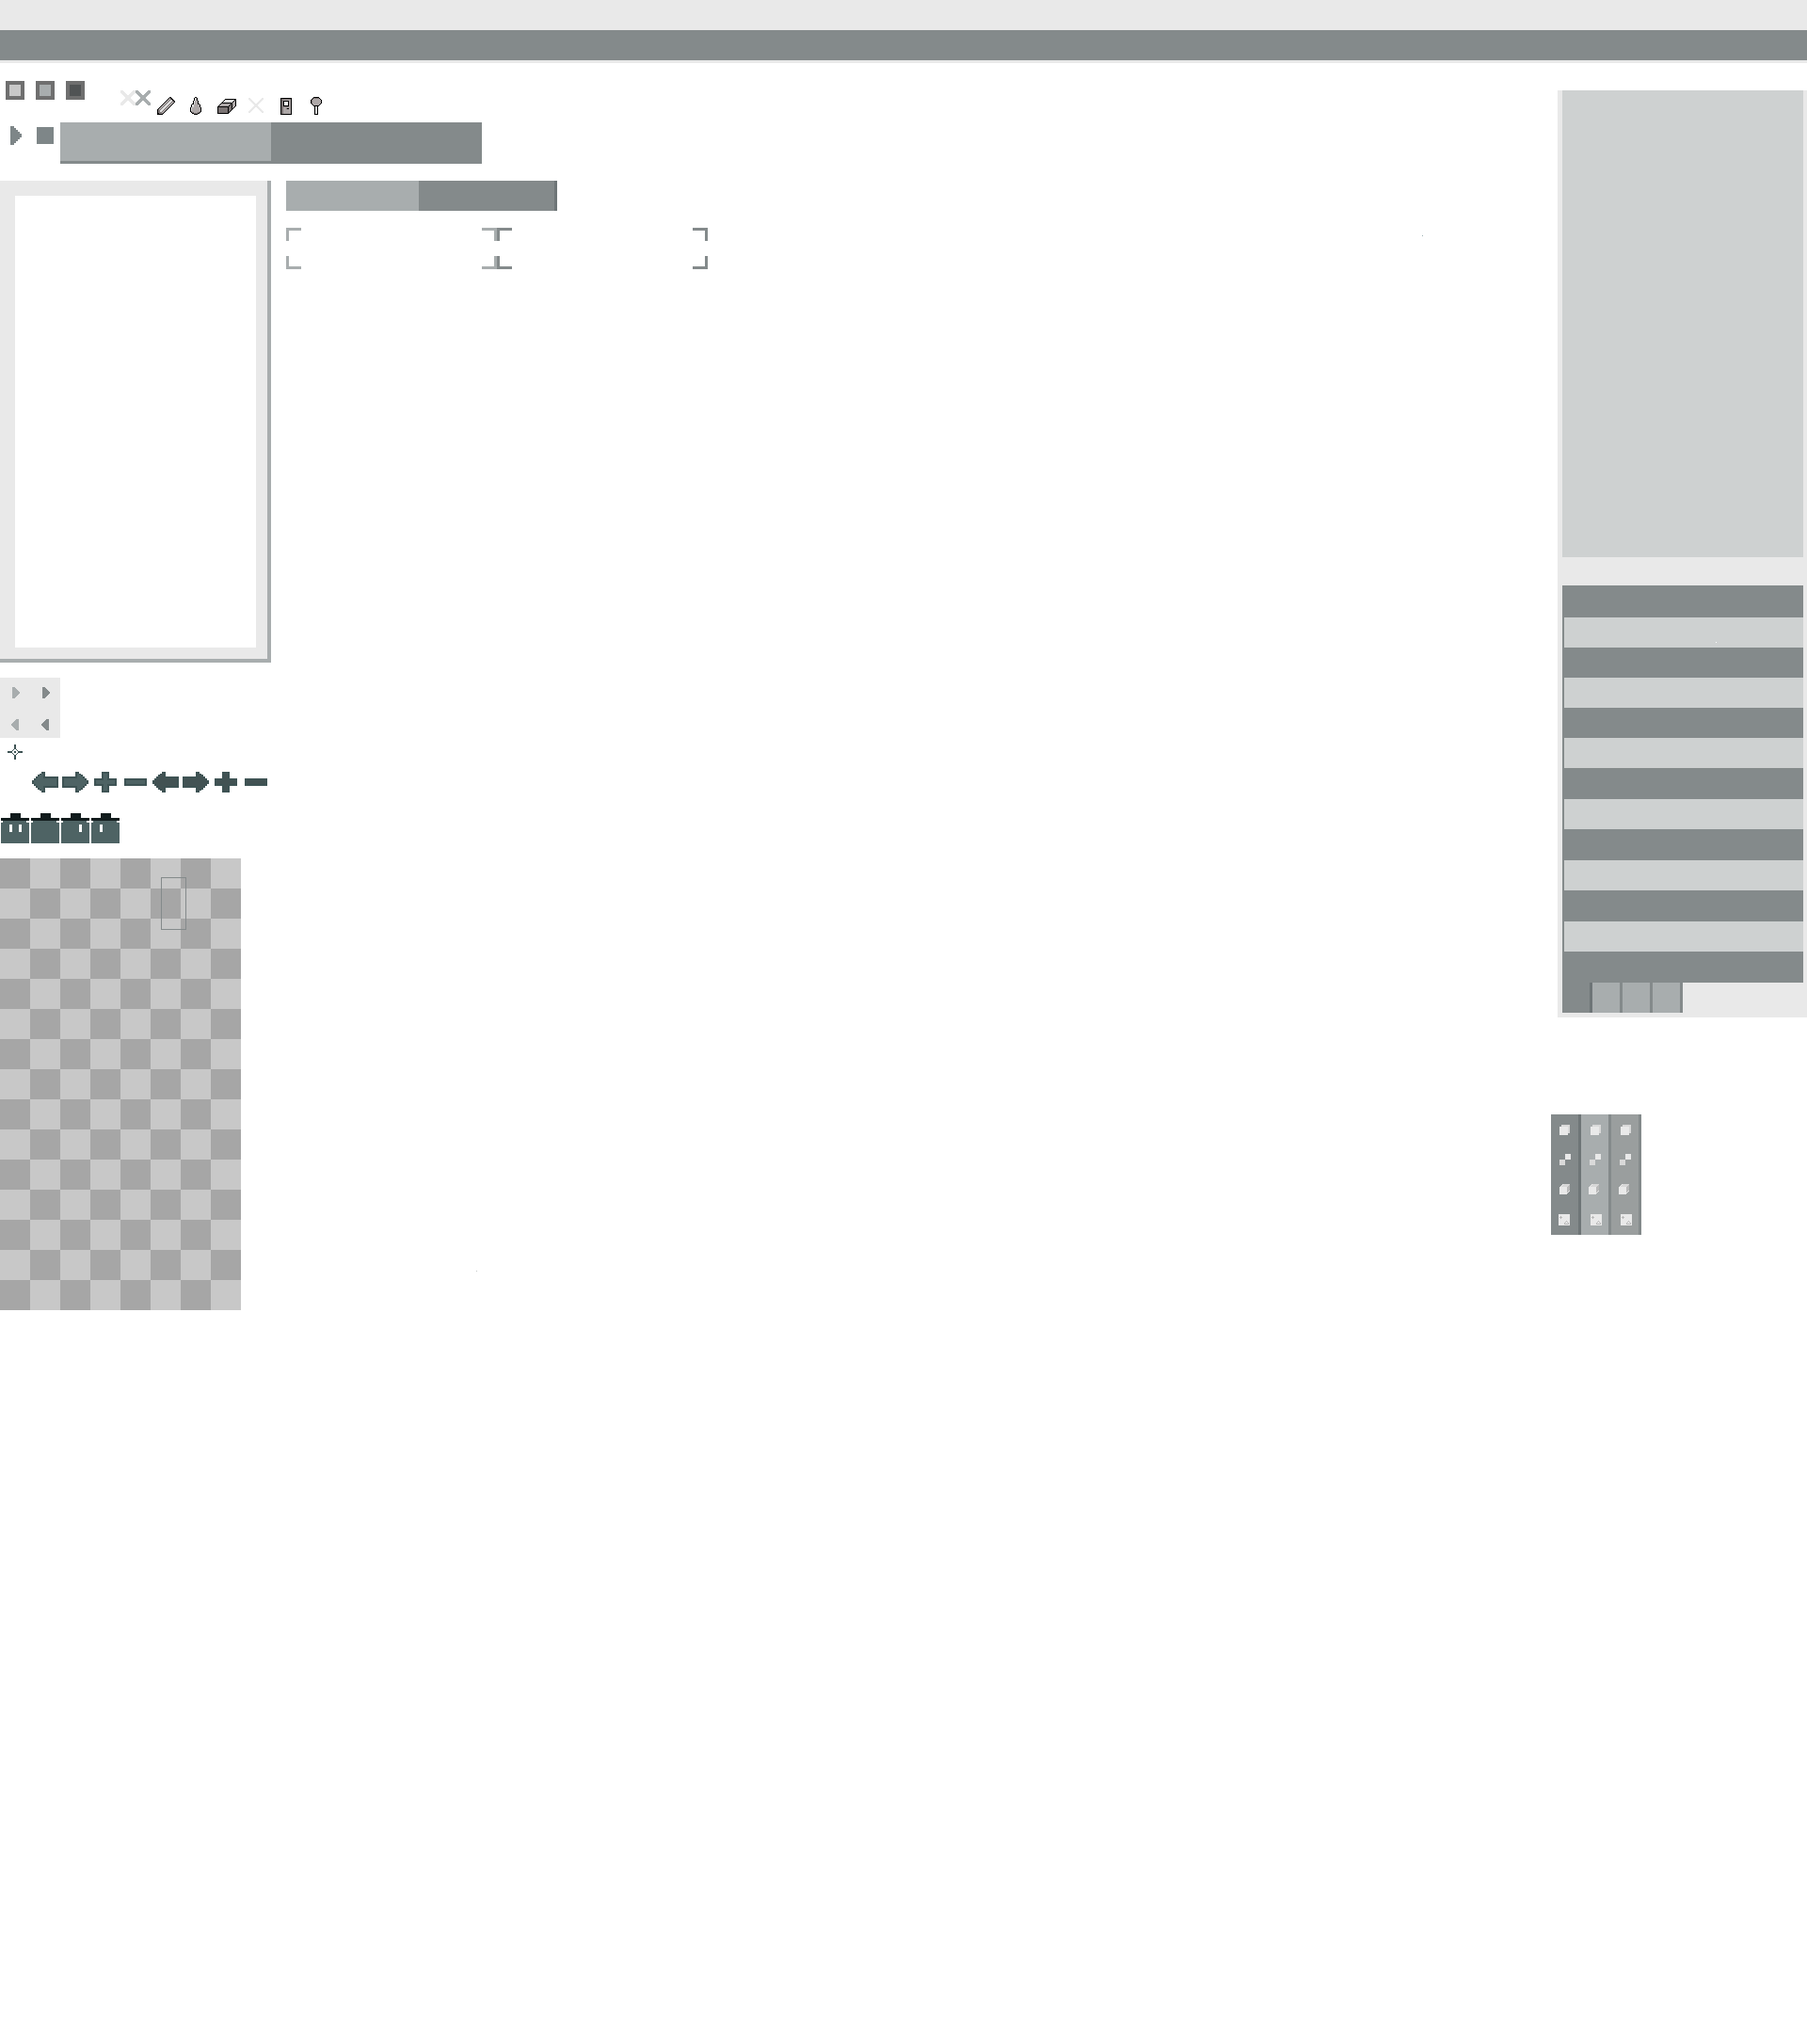
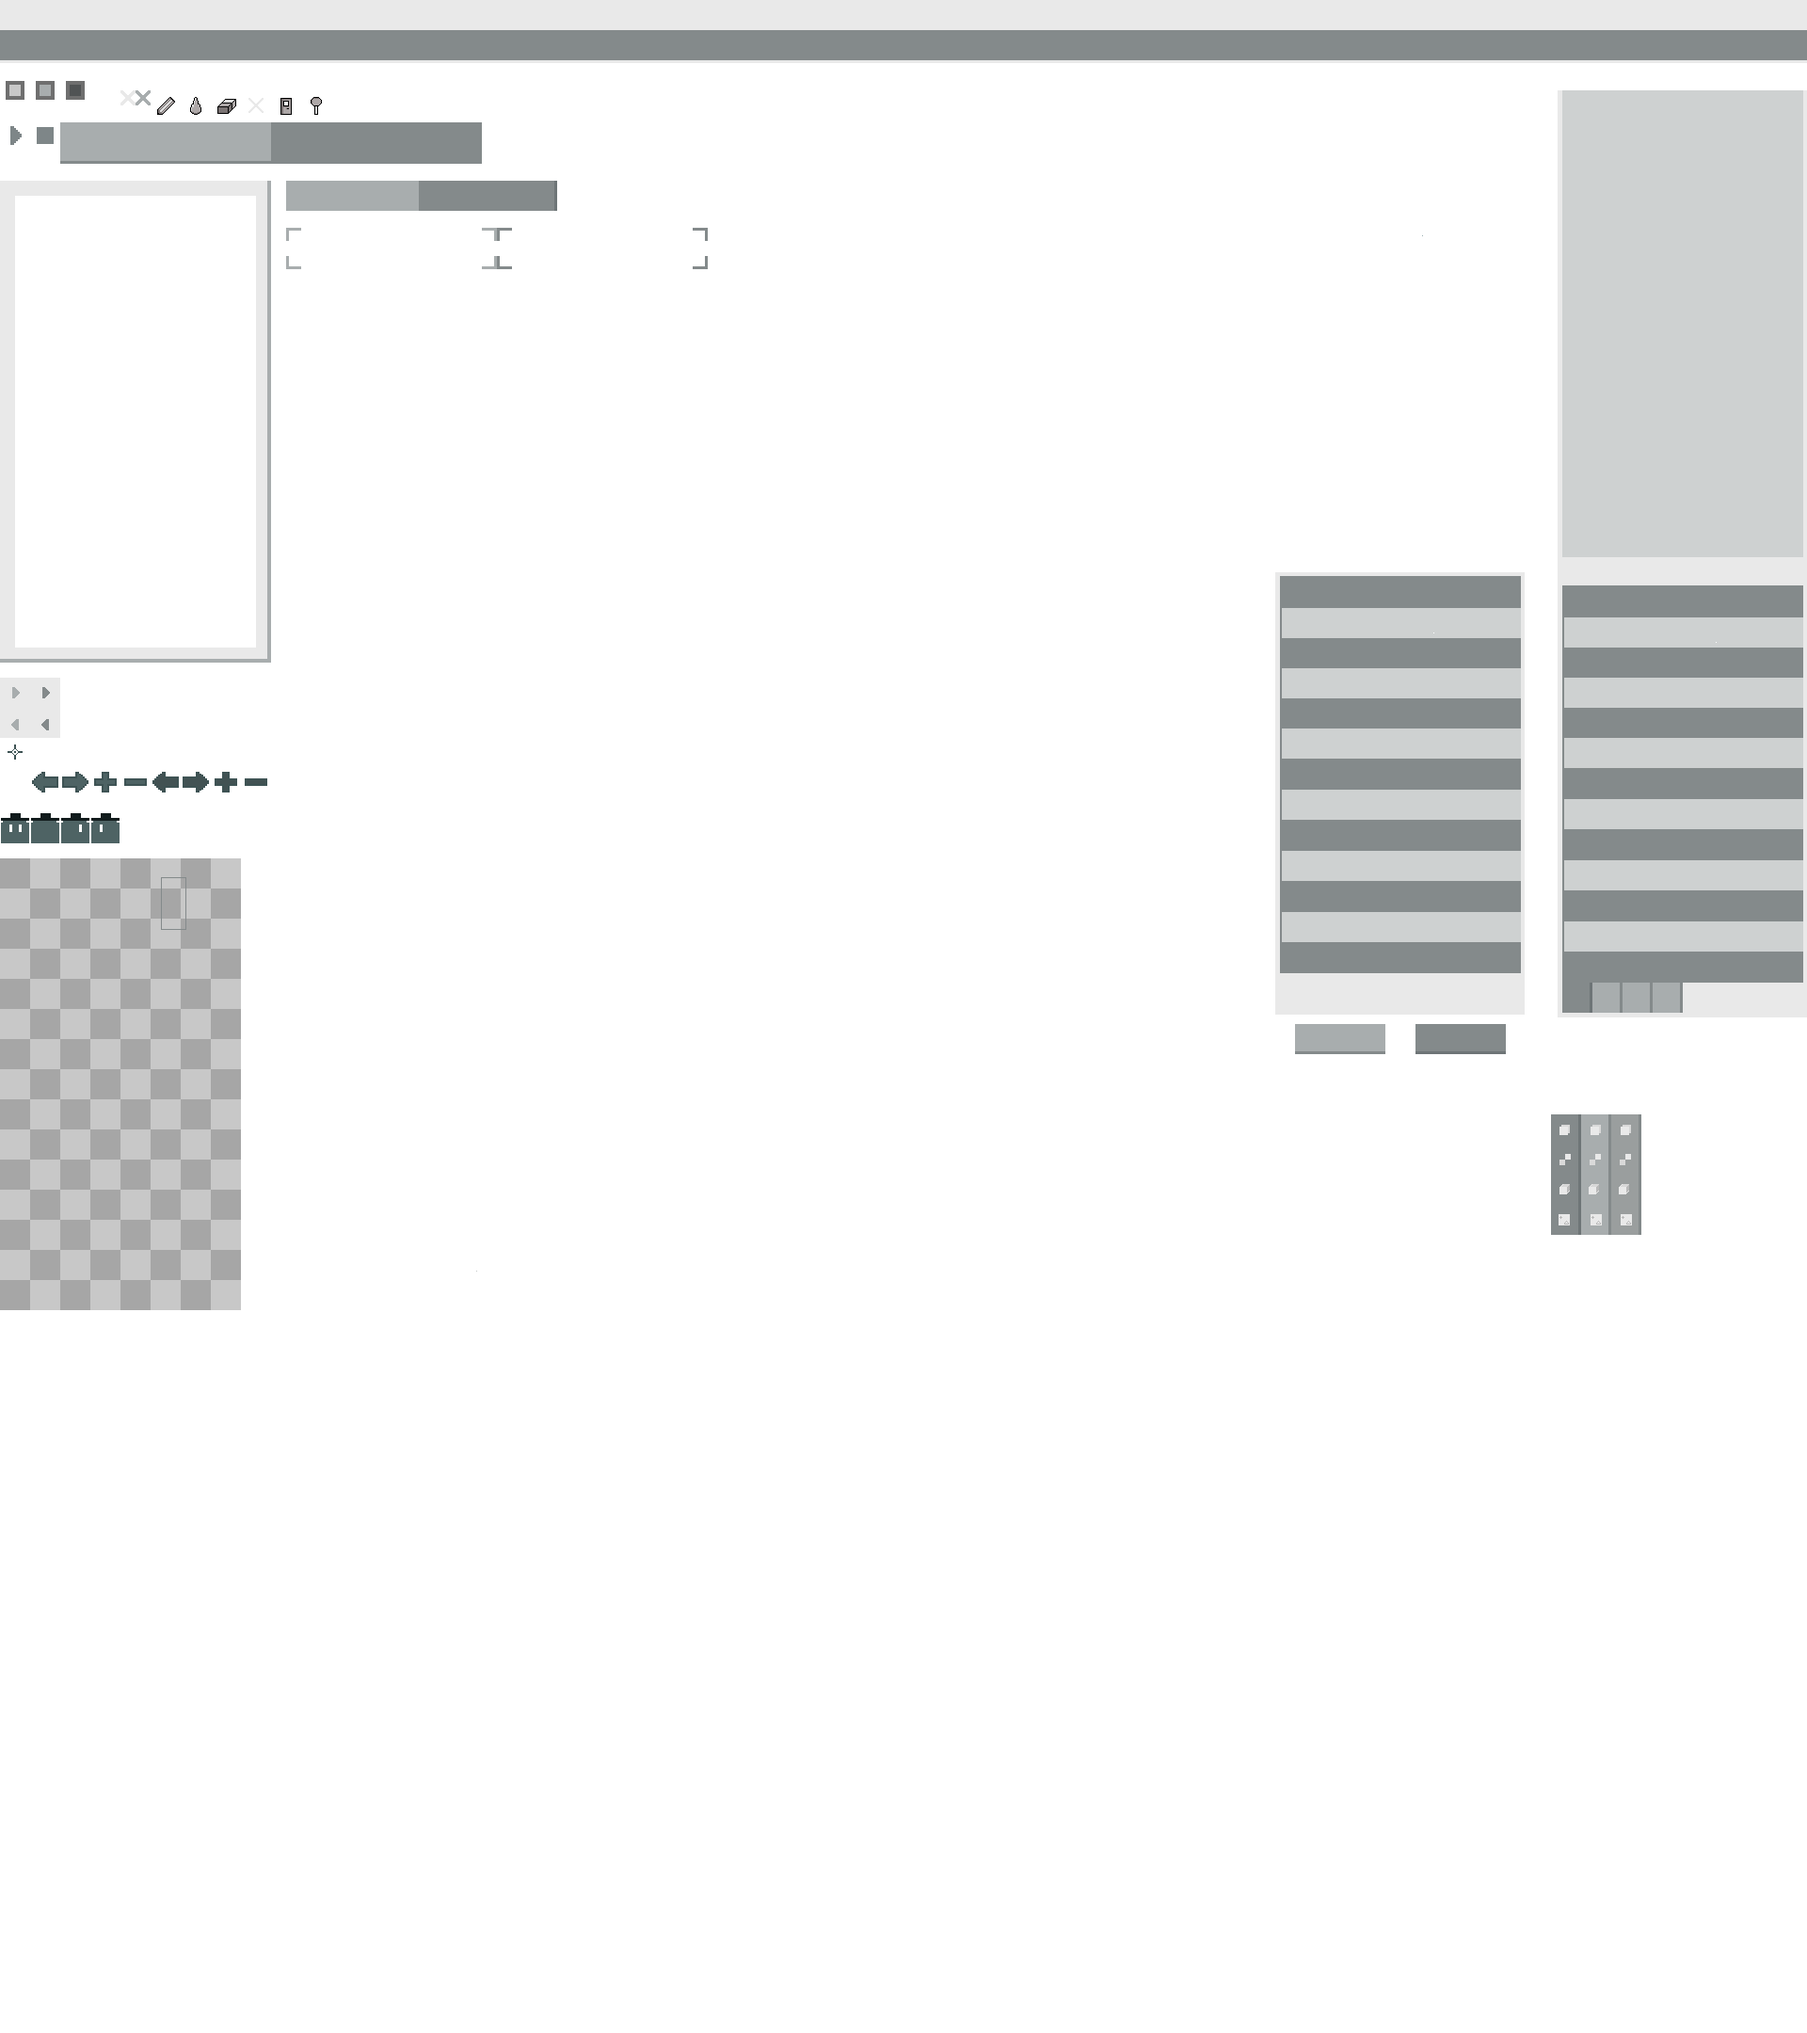
bug fixes

Changed region(s): [[0.6875, 0.2792, 0.8438, 0.5273]]

diff --git a/src/ProgramLoop.cs b/src/ProgramLoop.cs
@@ -303,6 +303,7 @@ namespace tile_mapper.src
             AreaLabels = new UI_Menu(false, new Rectangle(1768, 802, 0, 0), LabelMenuDestination);
             LayerLabels = new UI_Menu(true, new Rectangle(1768, 802, 0, 0), LabelMenuDestination);
             ObjectLabels = new UI_Menu(false, new Rectangle(1660, 96, 256, 422), LabelMenuDestination); // Object menu has 2 button lists instead of labels.
+            ObjectLabels.Scrollable = true;
 
             LayerName = new Label();
             LayerName.LabelRect = new Rectangle(1660, 624 - 64, 256, 32);
@@ -413,7 +414,6 @@ namespace tile_mapper.src
             UI_Elements.Add(GeneralOverlay);
             UI_Elements.Add(Properties);
 
-            // Scrollable
             UI_Elements.Add(ObjectMenu);
             UI_Elements.Add(AreaMenu);
             UI_Elements.Add(LayerMenu);
@@ -434,10 +434,12 @@ namespace tile_mapper.src
             PropertyMenu1.Add(ObjectMenu);
             PropertyMenu1.Add(CollisionSpriteList);
 
+            // Scrollable
             Scrollable_Menus.Add(LayerMenu);
             Scrollable_Menus.Add(AreaMenu);
             Scrollable_Menus.Add(ObjectMenu);
             Scrollable_Menus.Add(CollisionSpriteList);
+            Scrollable_Menus.Add(ObjectLabels);
 
             LabelMenus.Add(LayerLabels);
             LabelMenus.Add(AreaLabels);
@@ -736,17 +738,21 @@ namespace tile_mapper.src
             }
             _spriteBatch.End();
 
-            _spriteBatch.GraphicsDevice.ScissorRectangle = LayerMenu.Destination;
-
-            _spriteBatch.Begin(SpriteSortMode.Immediate, BlendState.AlphaBlend, SamplerState.LinearClamp, DepthStencilState.Default, rasterizerState);
+            
 
             // Draw scrollable menus, elements need to be cut off when out of bounds.
             foreach (var menu in Scrollable_Menus)
             {
-                menu.Draw(_spriteBatch, UI, ScreenHeight, ScreenWidth, ScaleX, ScaleY, font, TextScale, true);
+                if(menu.IsVisible)
+                {
+                    _spriteBatch.GraphicsDevice.ScissorRectangle = menu.Destination;
+                    _spriteBatch.Begin(SpriteSortMode.Immediate, BlendState.AlphaBlend, SamplerState.LinearClamp, DepthStencilState.Default, rasterizerState);
+                    menu.Draw(_spriteBatch, UI, ScreenHeight, ScreenWidth, ScaleX, ScaleY, font, TextScale, true);
+                    _spriteBatch.End();
+                }
             }
 
-            _spriteBatch.End();
+            
 
             _spriteBatch.GraphicsDevice.ScissorRectangle = orgScissorRec;
             _spriteBatch.Begin(samplerState: SamplerState.PointClamp);
@@ -1127,7 +1133,7 @@ namespace tile_mapper.src
                 if (menu.Destination.Contains(MousePos))
                     return;
             // Execute each frame if mouse button is held.
-            if (mouseState.LeftButton == ButtonState.Pressed && selected != null)
+            if (mouseState.LeftButton == ButtonState.Pressed && selected != null && !keyboardState.IsKeyDown(Keys.LeftShift))
             {
                 foreach (var area in CurrentMap.areas)
                 {
@@ -1455,11 +1461,6 @@ namespace tile_mapper.src
             }
         }                  
         
-        internal void UpdateLabelMenu()
-        {
-
-        }
-
         internal void UpdateAreaLabels()
         {
             if (SelectedArea != null)
